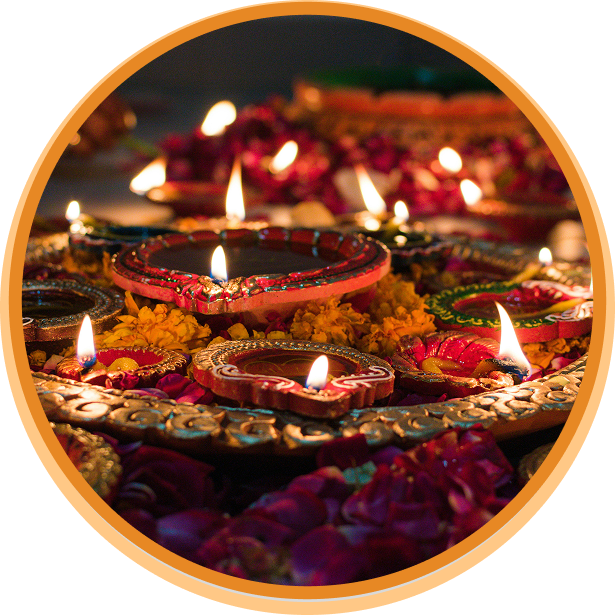
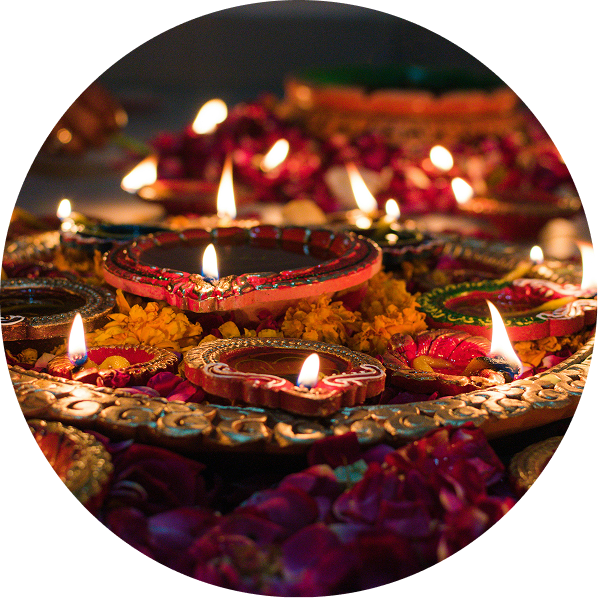
Update seasonal theme to Diwali and enhance related styles
- Changed active season from Holi to Diwali in restaurant data.
- Updated styles and content in the README to reflect seasonal changes.
- Modified navigation logo dates and adjusted hero section styles for Diwali.
- Removed unused candle image and updated image imports for seasonal display.

diff --git a/src/style.css b/src/style.css
@@ -138,8 +138,8 @@
 }
 
 /* === SPRING EVENT HERO OVERLAY ===
-   Comment out this entire block to revert to default hero background */
-.hero-texture::after {
+   Only applies during Holi season */
+.season-holi .hero-texture::after {
   content: '';
   position: absolute;
   z-index: 1;
@@ -159,6 +159,8 @@
   mix-blend-mode: overlay;
 }
 /* === END SPRING EVENT HERO OVERLAY === */
+
+/* === DIWALI HERO: no overlay, just base gradient + texture === */
 
 .page-texture {
     background-image: none;

diff --git a/README.md b/README.md
@@ -115,12 +115,38 @@ The development server will open at `http://localhost:3000` with hot module repl
 
 ## 🎨 Customization
 
+### Seasonal Switching (Holi / Diwali)
+
+The site supports biannual seasonal themes controlled by a single field in `public/data/restaurants.json`:
+
+```json
+"activeSeason": "holi"   // or "diwali"
+```
+
+Changing this value and rebuilding switches the following automatically:
+
+| Element | Holi | Diwali |
+|---------|------|--------|
+| **Body text** | "This Holi..." / "spirit of Holi" | "This Diwali..." / "spirit of Diwali" |
+| **Hero background** | Purple gradient with spring overlay | Dark maroon/burgundy gradient |
+| **Round image** | `holi-round-image.png` (color powders) | `candles.png` (Diwali diyas) |
+| **Explosion animation** | GSAP scroll-triggered burst + pin | Disabled (static hero) |
+| **Restaurant menus** | `seasonalMenus.holi` entries | Default `menu` entries |
+
+**How it works:**
+- `activeSeason` is read at build time in the Astro frontmatter and injected client-side as `window.__ACTIVE_SEASON__`
+- The homepage derives `seasonName`, `roundImage`, `heroBgColor`, and `heroPatternColor` from the active season
+- A `season-{name}` CSS class on the hero section toggles the spring overlay in `style.css`
+- The GSAP explosion animation checks `window.__ACTIVE_SEASON__` at runtime
+- Restaurant menus use `getActiveMenu()` from `src/scripts/shared.js` to select seasonal or default menus
+
 ### Restaurant Data
 Edit `public/data/restaurants.json` to update:
 - Chef profiles and bios
 - Restaurant information
 - Menu items and prices
 - Images and reservation links
+- Seasonal menus (add entries under `popup.seasonalMenus.holi` or `popup.seasonalMenus.diwali`)
 
 ### Styling
 The project uses Tailwind CSS v4 with custom design tokens in `src/style.css`:
